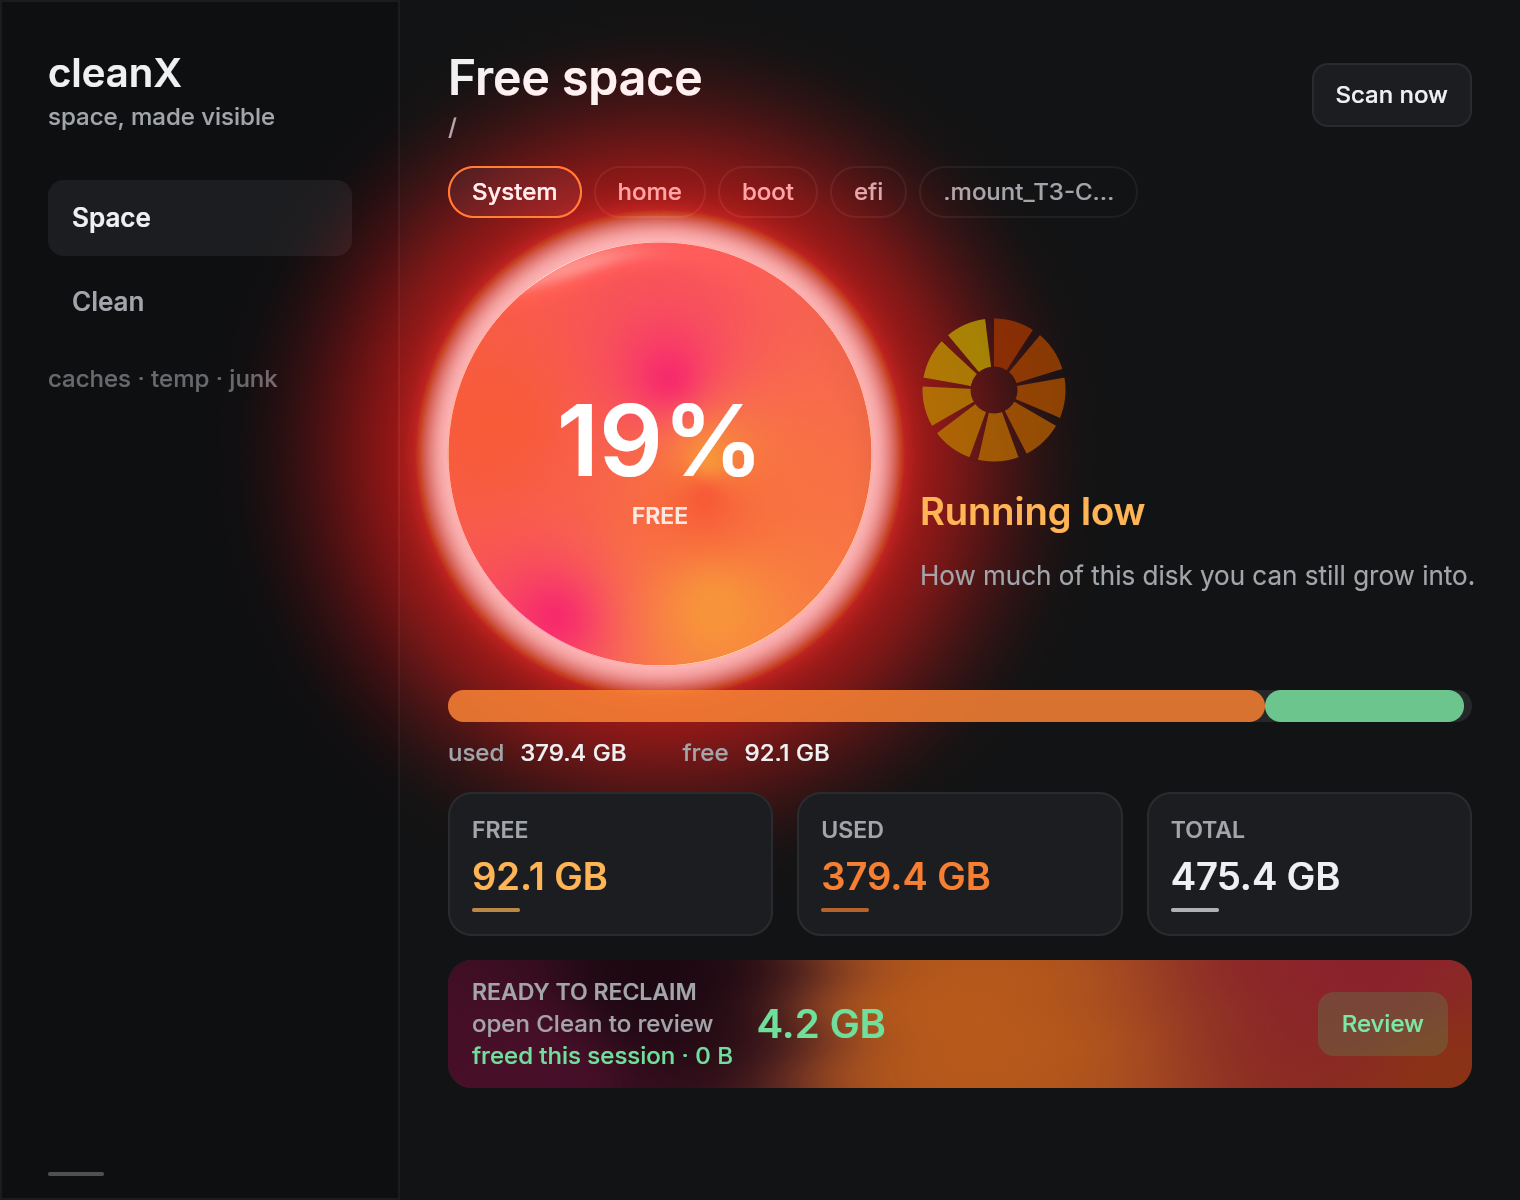
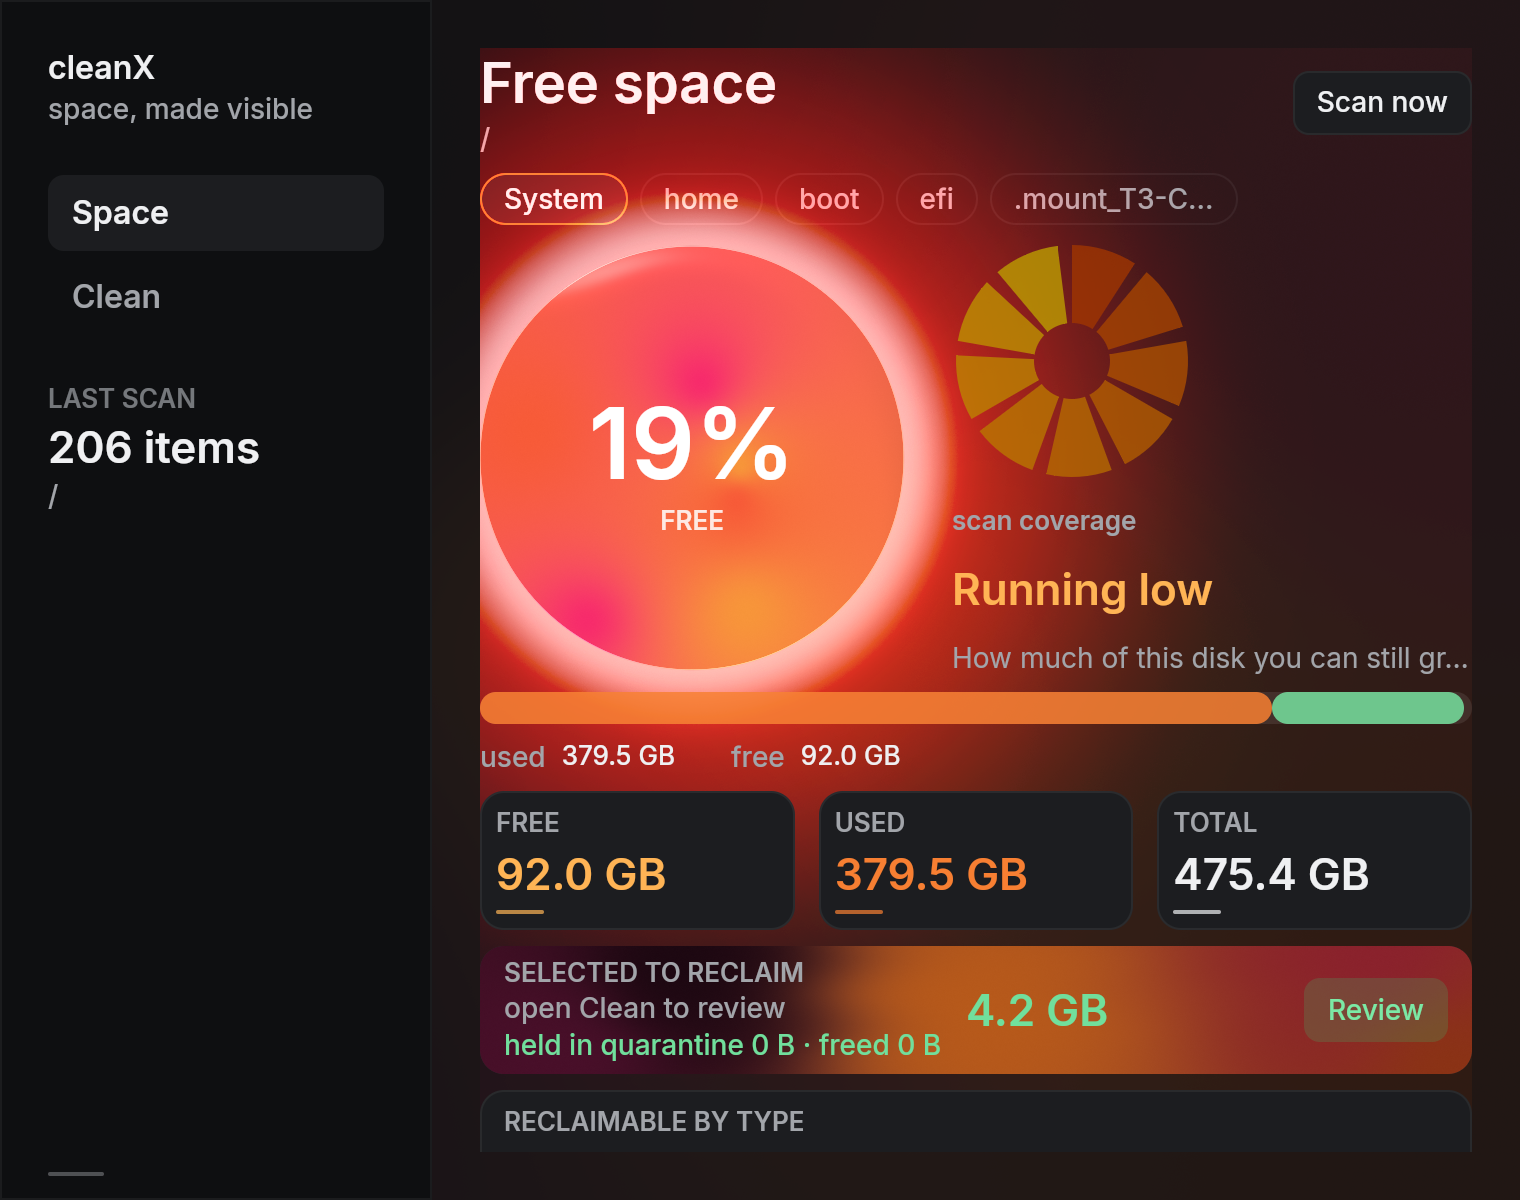
Refine the dashboard and fill wide space-tab gutters
The space dashboard now uses up to 1480px and sits in a lit lava field.\nThe orb halo reaches into the margin and the sunburst has a label.\nKeep a shared type scale, a reclaim breakdown and a disks list.\nGrow clean rows and the list viewport.

diff --git a/src/main.rs b/src/main.rs
@@ -7,10 +7,23 @@ mod gfx;
 mod scan;
 mod session;
 
-use rune::tok::{self, TextStyle, motion, radius, space, type_};
+use rune::tok::{self, motion, radius, space};
 use rune::{
     AppSpec, Color, Cx, El, LineCap, ScrollSpec, Shape, canvas, col, effect, el, oklch, row, text,
 };
+
+/// One type scale for the app; Rune's tokens are 11.5–13 px, too small here.
+mod type_ {
+    use rune::tok::TextStyle;
+    pub const BODY: TextStyle = TextStyle::new(14.0, 400.0);
+    pub const LABEL: TextStyle = TextStyle::new(14.0, 500.0);
+    pub const SECTION: TextStyle = TextStyle::new(13.0, 600.0);
+    pub const TITLE: TextStyle = TextStyle::new(16.0, 650.0);
+    pub const HEADING: TextStyle = TextStyle::new(28.0, 650.0);
+    pub const VALUE: TextStyle = TextStyle::new(22.0, 650.0);
+    pub const HERO: TextStyle = TextStyle::new(50.0, 650.0);
+    pub const MONO_CAPTION: TextStyle = TextStyle::new(13.0, 500.0).mono();
+}
 
 #[derive(Clone, Copy, Debug, PartialEq, Eq)]
 enum Tab {
@@ -140,6 +153,11 @@ fn view(s: &State, _: &mut Cx<State>) -> El {
         .h_full()
         .fill(t.bg)
         .child(
+            fx(gfx::MESH, [0.0, 0.0, 0.0, 0.0])
+                .key("ambient-lava")
+                .opacity(0.12),
+        )
+        .child(
             row()
                 .key("shell")
                 .grow(1.0)
@@ -163,9 +181,21 @@ fn view(s: &State, _: &mut Cx<State>) -> El {
                         .pb(space::S6)
                         .gap(space::S6)
                         .child(match s.tab {
-                            Tab::Space => {
-                                space_view(s, t.card, t.text, t.text_secondary, t.separator, hair)
-                            }
+                            Tab::Space => col()
+                                .key("space-stage")
+                                .center_y()
+                                .grow(1.0)
+                                .min_w(0.0)
+                                .min_h(0.0)
+                                .child(fx(gfx::MESH, [0.0, 0.0, 0.0, 0.0]).opacity(0.14))
+                                .child(space_view(
+                                    s,
+                                    t.card,
+                                    t.text,
+                                    t.text_secondary,
+                                    t.separator,
+                                    hair,
+                                )),
                             Tab::Clean => {
                                 clean_view(s, t.card, t.text, t.text_secondary, t.separator, hair)
                             }
@@ -222,7 +252,7 @@ fn sidebar(
     }
     col()
         .key("sidebar")
-        .w(200.0)
+        .w(216.0)
         .h_full()
         .px(space::S6)
         .pt(space::S6)
@@ -231,12 +261,7 @@ fn sidebar(
         .child(
             col()
                 .gap(2.0)
-                .child(
-                    text("cleanX")
-                        .key("brand")
-                        .font(TextStyle::new(20.0, 700.0))
-                        .color(ink),
-                )
+                .child(text("cleanX").key("brand").font(type_::TITLE).color(ink))
                 .child(
                     text("space, made visible")
                         .font(type_::LABEL)
@@ -245,12 +270,32 @@ fn sidebar(
         )
         .child(tabs)
         .child(
-            col().grow(1.0).child(el()).child(
-                text("caches · temp · junk")
+            col()
+                .key("scan-summary")
+                .grow(1.0)
+                .gap(2.0)
+                .mt(space::S6)
+                .child(
+                    text("LAST SCAN")
+                        .font(type_::SECTION)
+                        .color(secondary.alpha(0.7)),
+                )
+                .child(
+                    text(format!("{} items", s.session.candidates().len()))
+                        .font(type_::VALUE)
+                        .color(ink),
+                )
+                .child(
+                    text(
+                        s.session
+                            .current_volume()
+                            .map(|v| v.mount.as_str())
+                            .unwrap_or("no disk"),
+                    )
                     .font(type_::LABEL)
-                    .color(secondary.alpha(0.6))
-                    .mt(space::S3),
-            ),
+                    .color(secondary)
+                    .truncate(),
+                ),
         )
         .child(
             el().key("accent-line")
@@ -282,6 +327,15 @@ fn space_view(
     let (mood_text, mood_color) = mood(free);
     let hue = 150.0 - (1.0 - free) * 125.0;
     let orb_accent = oklch(0.72, 0.17, hue);
+
+    let mut by_kind: Vec<(scan::Kind, u64)> = Vec::new();
+    for c in s.session.candidates() {
+        match by_kind.iter_mut().find(|(k, _)| *k == c.target.kind) {
+            Some(entry) => entry.1 += c.target.bytes,
+            None => by_kind.push((c.target.kind, c.target.bytes)),
+        }
+    }
+    by_kind.sort_by(|a, b| b.1.cmp(&a.1));
 
     let mut pills = row().key("volumes").gap(6.0).w_full();
     if s.session.volumes().len() > 4 {
@@ -320,8 +374,13 @@ fn space_view(
     col()
         .key("space")
         .grow(1.0)
+        .w_full()
+        .max_w(1480.0)
         .min_h(0.0)
-        .gap(space::S3)
+        .gap(space::S2)
+        .scroll(ScrollSpec {
+            stick_bottom: false,
+        })
         .child(
             row()
                 .key("space-head")
@@ -333,7 +392,7 @@ fn space_view(
                         .child(
                             text("Free space")
                                 .key("title")
-                                .font(TextStyle::new(24.0, 650.0))
+                                .font(type_::HEADING)
                                 .color(ink),
                         )
                         .child(text(&v.mount).font(type_::LABEL).color(secondary)),
@@ -385,10 +444,10 @@ fn space_view(
                                 .radius(106.0),
                         )
                         .child(
-                            fx(gfx::GLOW, [38.0, 0.95, 1.0 - free, 0.0])
+                            fx(gfx::GLOW, [64.0, 0.9, 1.0 - free, 0.0])
                                 .key("orb-glow")
                                 .radius(106.0)
-                                .effect_bleed(80.0),
+                                .effect_bleed(160.0),
                         )
                         .child(
                             col()
@@ -397,7 +456,7 @@ fn space_view(
                                 .child(
                                     text(format!("{:.0}%", free * 100.0))
                                         .key("free-pct")
-                                        .font(TextStyle::new(50.0, 650.0))
+                                        .font(type_::HERO)
                                         .color(Color::WHITE),
                                 )
                                 .child(
@@ -410,22 +469,25 @@ fn space_view(
                 .child(
                     col()
                         .grow(1.0)
+                        .min_w(0.0)
                         .gap(space::S3)
                         .child(
                             canvas(sunburst(s.session.scan_progress(), hue))
                                 .key("sunburst")
-                                .size(74.0, 74.0),
+                                .size(120.0, 120.0),
                         )
+                        .child(text("scan coverage").font(type_::SECTION).color(secondary))
                         .child(
                             text(mood_text)
                                 .key("mood")
-                                .font(TextStyle::new(19.0, 600.0))
+                                .font(type_::VALUE)
                                 .color(mood_color),
                         )
                         .child(
                             text("How much of this disk you can still grow into.")
                                 .font(type_::BODY)
-                                .color(secondary),
+                                .color(secondary)
+                                .truncate(),
                         ),
                 ),
         )
@@ -524,7 +586,7 @@ fn space_view(
                     col()
                         .gap(1.0)
                         .child(
-                            text("READY TO RECLAIM")
+                            text("SELECTED TO RECLAIM")
                                 .font(type_::SECTION)
                                 .color(secondary),
                         )
@@ -547,7 +609,7 @@ fn space_view(
                 .child(
                     el().grow(1.0).child(
                         text(scan::human(s.session.reclaimable()))
-                            .font(TextStyle::new(20.0, 650.0))
+                            .font(type_::VALUE)
                             .color(oklch(0.82, 0.14, 155.0))
                             .align(rune::Align::End),
                     ),
@@ -567,6 +629,91 @@ fn space_view(
                         ),
                 ),
         )
+        .child(
+            col()
+                .key("by-kind")
+                .h(72.0)
+                .px(space::S3)
+                .py(space::S2)
+                .gap(space::S2)
+                .radius(radius::LG)
+                .fill(card)
+                .border(hair, separator)
+                .child(
+                    text("RECLAIMABLE BY TYPE")
+                        .font(type_::SECTION)
+                        .color(secondary),
+                )
+                .child({
+                    let mut chips = row().key("kind-chips").gap(space::S2).grow(1.0);
+                    for (kind, bytes) in &by_kind {
+                        chips = chips.child(
+                            col()
+                                .grow(1.0)
+                                .min_w(0.0)
+                                .gap(2.0)
+                                .child(text(kind.label()).font(type_::SECTION).color(secondary))
+                                .child(
+                                    text(scan::human(*bytes))
+                                        .font(type_::TITLE)
+                                        .color(orb_accent),
+                                ),
+                        );
+                    }
+                    chips
+                }),
+        )
+        .child(
+            col()
+                .key("disks")
+                .min_h(200.0)
+                .max_h(360.0)
+                .grow(1.0)
+                .px(space::S3)
+                .py(space::S2)
+                .gap(space::S2)
+                .radius(radius::LG)
+                .fill(card)
+                .border(hair, separator)
+                .child(text("DISKS").font(type_::SECTION).color(secondary))
+                .child({
+                    let mut rows = col().key("disk-rows").grow(1.0).gap(space::S2);
+                    for (i, vol) in s.session.volumes().iter().enumerate() {
+                        let on = i == s.session.volume_index();
+                        let frac = scan::fraction(vol.free, vol.total);
+                        rows =
+                            rows.child(
+                                row()
+                                    .key(format!("disk-{i}"))
+                                    .grow(1.0)
+                                    .gap(space::S3)
+                                    .center_y()
+                                    .child(
+                                        text(&vol.name)
+                                            .font(type_::LABEL)
+                                            .color(if on { ink } else { secondary })
+                                            .truncate(),
+                                    )
+                                    .child(el().grow(1.0))
+                                    .child(
+                                        el().w(140.0)
+                                            .h(4.0)
+                                            .radius(2.0)
+                                            .fill(tok::theme(true).control_off)
+                                            .child(el().h(4.0).w_frac(frac).radius(2.0).fill(
+                                                if on { orb_accent } else { secondary.alpha(0.6) },
+                                            )),
+                                    )
+                                    .child(
+                                        text(format!("{:.0}% free", frac * 100.0))
+                                            .font(type_::LABEL)
+                                            .color(if on { orb_accent } else { secondary }),
+                                    ),
+                            );
+                    }
+                    rows
+                }),
+        )
 }
 
 fn stat(label: &str, value: &str, accent: Color, card: Color, secondary: Color, hair: f32) -> El {
@@ -575,12 +722,12 @@ fn stat(label: &str, value: &str, accent: Color, card: Color, secondary: Color, 
         .grow(1.0)
         .min_w(0.0)
         .gap(4.0)
-        .padding(space::S3)
+        .padding(space::S2)
         .radius(radius::LG)
         .fill(card)
         .border(hair, secondary.alpha(0.1))
         .child(text(label).font(type_::SECTION).color(secondary))
-        .child(text(value).font(TextStyle::new(19.0, 650.0)).color(accent))
+        .child(text(value).font(type_::VALUE).color(accent))
         .child(el().h(2.0).w(24.0).radius(1.0).fill(accent.alpha(0.7)))
 }
 
@@ -654,7 +801,7 @@ fn clean_view(
         list = list.child(
             row()
                 .key(format!("row-{i}"))
-                .h(58.0)
+                .h(66.0)
                 .px(space::S3)
                 .gap(space::S3)
                 .center_y()
@@ -809,7 +956,7 @@ fn clean_view(
                 .child(
                     text("Safe to clean")
                         .key("title")
-                        .font(TextStyle::new(24.0, 650.0))
+                        .font(type_::HEADING)
                         .color(ink),
                 )
                 .child(
@@ -894,7 +1041,7 @@ fn clean_view(
         .child(
             col()
                 .key("list-viewport")
-                .h(300.0)
+                .grow(1.0)
                 .min_h(0.0)
                 .scroll(ScrollSpec {
                     stick_bottom: false,
@@ -1108,6 +1255,17 @@ mod tests {
         let mut rt = Runtime::new(state, view, (760.0, 600.0), Env::new(true, 1.0));
         rt.frame(0.0);
         assert!(rt.find("held-clean").is_some());
+    }
+
+    #[test]
+    fn space_shows_a_reclaim_breakdown() {
+        let mut state = State::default();
+        state.session.set_candidates(vec![fake_target()]);
+        let mut rt = Runtime::new(state, view, (760.0, 600.0), Env::new(true, 1.0));
+        rt.frame(0.0);
+        assert!(rt.find("by-kind").is_some());
+        assert!(rt.find("kind-chips").is_some());
+        assert!(rt.find("disks").is_some());
     }
 
     #[test]
